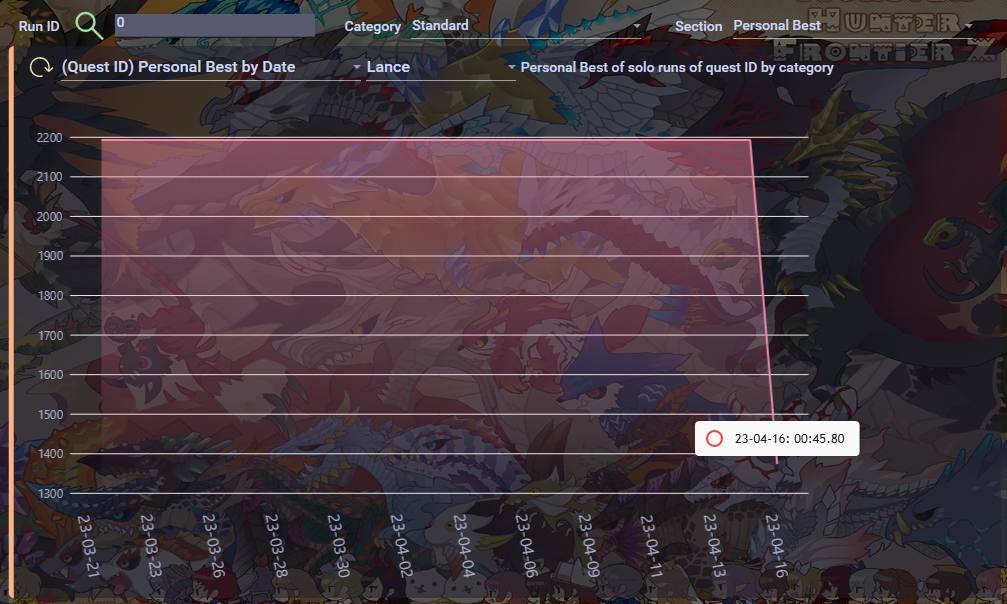
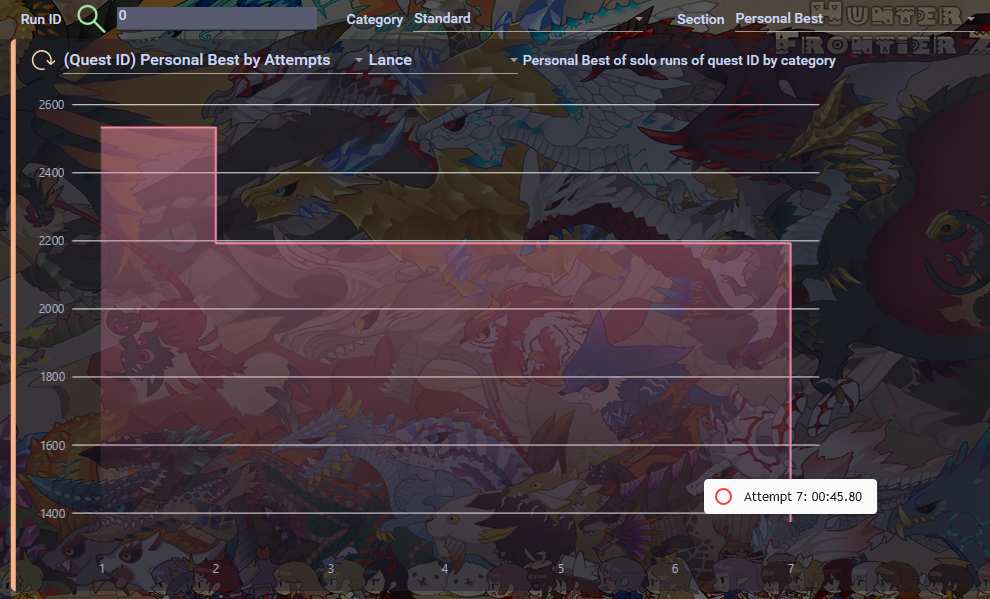
feat: change personal best graphs to step line series

diff --git a/MHFZ_Overlay/ConfigWindow.xaml.cs b/MHFZ_Overlay/ConfigWindow.xaml.cs
@@ -2031,12 +2031,11 @@ namespace MHFZ_Overlay
                 collection.Add(new ObservablePoint(entry.Key, entry.Value));
             }
 
-            series.Add(new LineSeries<ObservablePoint>
+            series.Add(new StepLineSeries<ObservablePoint>
             {
                 Values = collection,
                 TooltipLabelFormatter = (chartPoint) =>
                 $"Attempt {chartPoint.SecondaryValue}: {MainWindow.DataLoader.model.GetMinutesSecondsMillisecondsFromFrames((long)chartPoint.PrimaryValue)}",
-                LineSmoothness = 0,
                 GeometrySize = 0,
                 Stroke = new SolidColorPaint(new SKColor(MainWindow.DataLoader.model.HexColorToDecimal("#fff38ba8"))) { StrokeThickness = 2 },
                 Fill = new LinearGradientPaint(new SKColor(MainWindow.DataLoader.model.HexColorToDecimal("#fff38ba8", "7f")), new SKColor(MainWindow.DataLoader.model.HexColorToDecimal("#fff38ba8", "00")), new SKPoint(0.5f, 0), new SKPoint(0.5f, 1))
@@ -2046,7 +2045,8 @@ namespace MHFZ_Overlay
             {
                 new Axis
                 {
-                    TextSize=12,
+                    MinStep = 1,
+                    TextSize = 12,
                     //Labeler = (value) => MainWindow.DataLoader.model.GetTimeElapsed(value),
                     NamePaint = new SolidColorPaint(new SKColor(MainWindow.DataLoader.model.HexColorToDecimal("#a6adc8"))),
                     LabelsPaint = new SolidColorPaint(new SKColor(MainWindow.DataLoader.model.HexColorToDecimal("#a6adc8"))),
@@ -2057,8 +2057,9 @@ namespace MHFZ_Overlay
             {
                 new Axis
                 {
-                    NameTextSize= 12,
-                    TextSize=12,
+                    NameTextSize = 12,
+                    MinStep = 1,
+                    TextSize = 12,
                     NamePadding= new LiveChartsCore.Drawing.Padding(0),
                     NamePaint = new SolidColorPaint(new SKColor(MainWindow.DataLoader.model.HexColorToDecimal("#a6adc8"))),
                     LabelsPaint = new SolidColorPaint(new SKColor(MainWindow.DataLoader.model.HexColorToDecimal("#a6adc8"))),
@@ -2096,10 +2097,9 @@ namespace MHFZ_Overlay
                 prevTime = time;
             }
 
-            series.Add(new LineSeries<DateTimePoint>
+            series.Add(new StepLineSeries<DateTimePoint>
             {
                 Values = collection,
-                LineSmoothness = 0,
                 GeometrySize = 0,
                 Stroke = new SolidColorPaint(new SKColor(MainWindow.DataLoader.model.HexColorToDecimal("#fff38ba8"))) { StrokeThickness = 2 },
                 Fill = new LinearGradientPaint(new SKColor(MainWindow.DataLoader.model.HexColorToDecimal("#fff38ba8", "7f")), new SKColor(MainWindow.DataLoader.model.HexColorToDecimal("#fff38ba8", "00")), new SKPoint(0.5f, 0), new SKPoint(0.5f, 1)),
@@ -2136,6 +2136,7 @@ namespace MHFZ_Overlay
             {
                 new Axis
                 {
+                    MinStep = 1,
                     NameTextSize= 12,
                     TextSize=12,
                     NamePadding= new LiveChartsCore.Drawing.Padding(0),

diff --git a/README.md b/README.md
@@ -159,9 +159,7 @@ Includes icons!
 
 - [x] Also includes personal best times by date and by attempts! The total frames elapsed are shown in the graph.
 
-![Personal Best by Date](./demo/personalbest1.png)
-
-![Personal Best by Attempts](./demo/personalbest2.png)
+![Personal Best by Attempts](./demo/personalbest1.png)
 
 **Important**: It is recommended to make a backup of the `MHFZ_Overlay.sqlite` file periodically. The file is located inside the database folder, which is inside your game folder.
 
